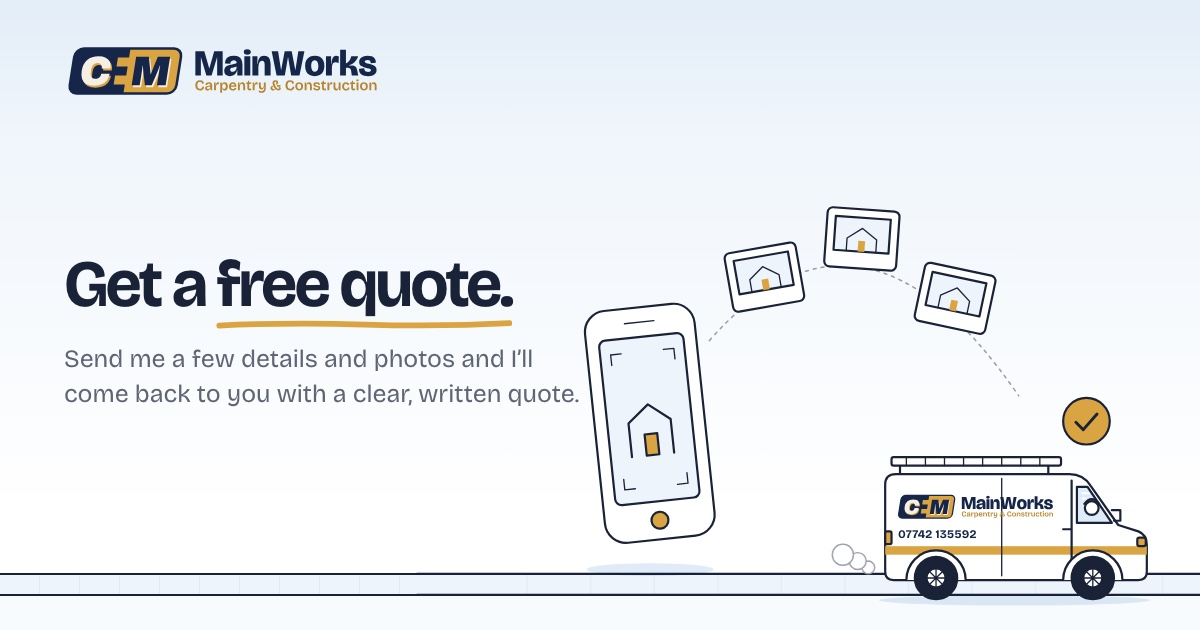
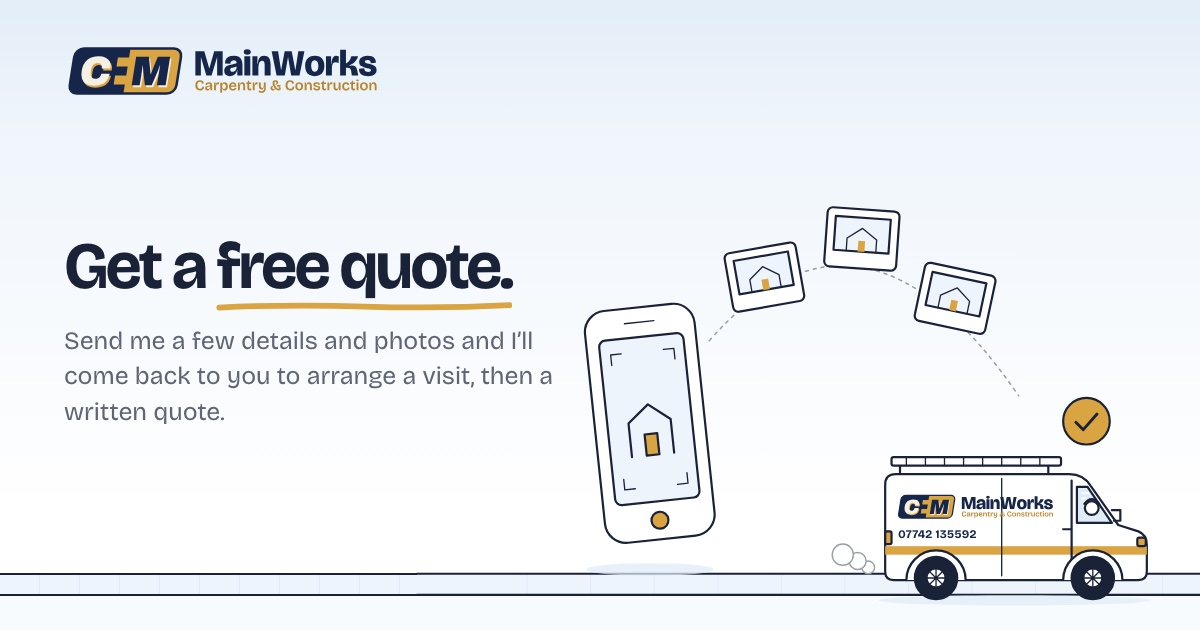
Impeccable critique fixes: quote routes, contact page, honest promise, grouped services
- A gold 'Free quote' beside the phone number on computers (phones have the bar)
- Contact: the form first on phones; what to send (a tick list) beside it on
  computers; the form doesn't repeat the page's heading
- The form promises a visit, not a price; after sending: what happens next and
  'Copy my message' for anyone whose WhatsApp or email didn't open
- Price cards stack on phones; no label above the heading (an Impeccable ban):
  'My main work' moves into the card's own line
- Menus group services into renovation work and smaller jobs; the form's job
  names match the menu
- Service headings underline the words that matter, on one line
- The phone hero's quote panel folds away again
- Browser checks: bigger tap areas (footer, crumbs), footer logo focus ring,
  before/after tags 13px, shorter price-note lines, no empty-animation warnings,
  text selection and caret in the palette

Changed region(s): [[0.0308, 0.3619, 0.4933, 0.6635], [0.4933, 0.9048, 0.5858, 0.9349]]

diff --git a/components/QuoteForm.tsx b/components/QuoteForm.tsx
@@ -40,7 +40,7 @@ const whatsappUrl = (text: string) => `${business.whatsapp}?text=${encodeURIComp
 const mailUrl = (to: string, subject: string, text: string) =>
   `mailto:${to}?subject=${encodeURIComponent(subject)}&body=${encodeURIComponent(text)}`;
 
-function QuoteCard({ headingLevel = 2, defaultJob = "" }: { headingLevel?: 2 | 1; defaultJob?: JobType | "" }) {
+function QuoteCard({ headingLevel = 2, defaultJob = "", head = true }: { headingLevel?: 2 | 1; defaultJob?: JobType | ""; head?: boolean }) {
   const formRef = useRef<HTMLFormElement>(null);
   const againRef = useRef<HTMLButtonElement>(null);
   const [errors, setErrors] = useState<Partial<Record<Key, string>>>({});
@@ -48,6 +48,7 @@ function QuoteCard({ headingLevel = 2, defaultJob = "" }: { headingLevel?: 2 | 1
   const [more, setMore] = useState(false);
   const [sent, setSent] = useState<Sent | null>(null);
   const [mail, setMail] = useState(""); // joined after the page loads, so it isn't in the page for bots
+  const [copied, setCopied] = useState(false);
 
   useEffect(() => setMail(business.emailParts.join("@")), []);
 
@@ -111,6 +112,7 @@ function QuoteCard({ headingLevel = 2, defaultJob = "" }: { headingLevel?: 2 | 1
     setErrors({});
     setMore(false);
     setSent(null);
+    setCopied(false);
     setTimeout(() => (formRef.current?.elements.namedItem("name") as HTMLInputElement)?.focus(), 0);
   };
 
@@ -132,6 +134,7 @@ function QuoteCard({ headingLevel = 2, defaultJob = "" }: { headingLevel?: 2 | 1
               ? <>WhatsApp should be open with your details written out. <strong>Now add any photos with the paperclip</strong>, then tap send.</>
               : <>Your email should be open with your details filled in. <strong>Now attach any photos</strong>, then send it.</>}
           </p>
+          <p className="next">What happens next: I’ll reply, come and see the job, then send you a written quote.</p>
           <ul className="done-links">
             <li>
               {wa
@@ -142,6 +145,12 @@ function QuoteCard({ headingLevel = 2, defaultJob = "" }: { headingLevel?: 2 | 1
               {wa
                 ? <a href={mailUrl(mail, sent.subject, sent.text)}>Send it by email instead</a>
                 : <a href={whatsappUrl(sent.text)} target="_blank" rel="noopener">Send it on WhatsApp instead</a>}
+            </li>
+            <li>
+              {/* for anyone whose WhatsApp or email didn't open: the message, to paste anywhere */}
+              <button type="button" className="copy" onClick={() => navigator.clipboard?.writeText(sent.text).then(() => setCopied(true), () => {})}>
+                {copied ? "Copied. Paste it anywhere" : "Copy my message"}
+              </button>
             </li>
             <li>Or ring me on <a href={business.phoneHref}>{business.phoneDisplay}</a></li>
           </ul>
@@ -164,12 +173,14 @@ function QuoteCard({ headingLevel = 2, defaultJob = "" }: { headingLevel?: 2 | 1
 
   return (
     <div className="quote">
-      <div className="quote-head">
-        <H>Get a free quote</H>
-        <p>A few details and I’ll come back to you with a price.</p>
-      </div>
+      {head && (
+        <div className="quote-head">
+          <H>Get a free quote</H>
+          <p>A few details and I’ll come back to you to arrange a visit.</p>
+        </div>
+      )}
 
-      <form ref={formRef} noValidate onSubmit={onSubmit} aria-describedby="q-note">
+      <form ref={formRef} noValidate onSubmit={onSubmit} aria-describedby="q-note" aria-label="Ask for a free quote">
         <div className="row2">
           <div className={`field${errors.name ? " invalid" : ""}`}>
             <label htmlFor="q-name">Name</label>
@@ -241,7 +252,7 @@ function QuoteCard({ headingLevel = 2, defaultJob = "" }: { headingLevel?: 2 | 1
   Tablets and desktop always show the form. "Ask about…" buttons, the mobile bar
   and links to #quote open it too.
 */
-export default function QuoteForm({ headingLevel = 2, collapsible = false, defaultJob = "" }: { headingLevel?: 2 | 1; collapsible?: boolean; defaultJob?: JobType | "" }) {
+export default function QuoteForm({ headingLevel = 2, collapsible = false, defaultJob = "", head = true }: { headingLevel?: 2 | 1; collapsible?: boolean; defaultJob?: JobType | ""; head?: boolean }) {
   const [open, setOpen] = useState(false);
   const [mobile, setMobile] = useState(false);
   const panel = useRef<HTMLDivElement>(null);
@@ -264,7 +275,7 @@ export default function QuoteForm({ headingLevel = 2, collapsible = false, defau
   }, [collapsible]);
 
   if (!collapsible) {
-    return <div className="quote-wrap" id="quote"><QuoteCard headingLevel={headingLevel} defaultJob={defaultJob} /></div>;
+    return <div className="quote-wrap" id="quote"><QuoteCard headingLevel={headingLevel} defaultJob={defaultJob} head={head} /></div>;
   }
 
   const openForm = () => {
@@ -276,7 +287,7 @@ export default function QuoteForm({ headingLevel = 2, collapsible = false, defau
   return (
     <div className={`quote-wrap collapsible${open ? " is-open" : ""}`} id="quote">
       <div className="quote-cta-wrap">
-        <button type="button" className="quote-cta" aria-expanded={open} aria-controls="quote-panel" onClick={openForm}>
+        <button type="button" className="quote-cta" aria-expanded={open} aria-controls="quote-panel" onClick={() => (open ? setOpen(false) : openForm())}>
           Get a free quote <ChevronDown />
         </button>
         <a className="quote-call" href={business.phoneHref}>Or ring me on {business.phoneDisplay}</a>

diff --git a/app/contact/page.tsx b/app/contact/page.tsx
@@ -16,11 +16,21 @@ export const metadata: Metadata = pageMeta({
 export default function Contact() {
   return (
     <>
-      <PageHead art="photos" crumbs={[{ href: "/contact", label: "Contact" }]} title={<>Get a <span className="hl">free quote.</span></>} lede="Planning a renovation or just one job? Send me a few details and photos and I’ll come back to you with a clear, written price." />
-      <section className="sec" style={{ paddingTop: 0 }}>
+      <PageHead art="photos" crumbs={[{ href: "/contact", label: "Contact" }]} title={<>Get a <span className="hl">free quote.</span></>} lede="Planning a renovation or just one job? Send me a few details and photos and I’ll come back to you to arrange a visit, then a written quote." />
+      <section className="sec contact-page" style={{ paddingTop: 0 }}>
         <div className="wrap contact-grid">
           <div data-reveal="up">
-            <h2 className="mid-h">Ring, message or send photos</h2>
+            <h2 className="mid-h">What to send for a quick quote</h2>
+            <p className="contact-sub">Not all of it. The more I see, the quicker the price.</p>
+            <ul className="ticks">
+              <li>A photo of each room or area, plus a couple of close-ups of anything that’s damaged or awkward</li>
+              <li>Rough measurements, if you’ve got them. Not essential</li>
+              <li>Any pictures you’ve saved of the look you’re after</li>
+              <li>Your postcode, and roughly when you’d like the work done</li>
+              <li>For a renovation, a rough budget if you have one. I’ll be honest about what it can do</li>
+              <li>Whether you’re supplying anything yourself, like doors, paint or tiles</li>
+            </ul>
+            <h2 className="mid-h contact-or">Or ring or message me</h2>
             <ul className="contact-list">
               <li><span className="k">Call</span><a href={business.phoneHref}>{business.phoneDisplay}</a></li>
               <li><span className="k">WhatsApp</span><a href={business.whatsapp} target="_blank" rel="noopener">Message me</a></li>
@@ -36,23 +46,8 @@ export default function Contact() {
               </li>
             </ul>
           </div>
-          <QuoteForm />
-        </div>
-      </section>
-      <section className="sec grey" aria-labelledby="send-title">
-        <div className="wrap faq-wrap">
-          <div className="faq-side" data-reveal="up">
-            <h2 id="send-title">What to send for a quick quote</h2>
-            <p>Not all of it. The more I see, the quicker the price.</p>
-          </div>
-          <ol className="factors" data-reveal="stagger">
-            <li>A photo of each room or area, plus a couple of close-ups of anything that’s damaged or awkward</li>
-            <li>Rough measurements, if you’ve got them. Not essential</li>
-            <li>Any pictures you’ve saved of the look you’re after</li>
-            <li>Your postcode, and roughly when you’d like the work done</li>
-            <li>For a renovation, a rough budget if you have one. I’ll be honest about what it can do</li>
-            <li>Whether you’re supplying anything yourself, like doors, paint or tiles</li>
-          </ol>
+          {/* the page's heading already says "Get a free quote", so the form doesn't repeat it */}
+          <QuoteForm head={false} />
         </div>
       </section>
     </>

diff --git a/app/concept.css b/app/concept.css
@@ -629,3 +629,41 @@ h1 .hl, h2 .hl, .quote-big .hl { background-size: var(--hlw, 100%) .26em; paddin
 .size-meter i:nth-child(3) { height: 16px; }
 .size-meter i.on { background: var(--gold); }
 .pkg .sizes .size-meter { display: inline-flex; flex-direction: row; align-items: flex-end; gap: 2px; }
+
+/* ---------- Impeccable critique fixes (10 Nov) ---------- */
+/* a gold "Free quote" beside the phone number on computers (phones have the sticky bar) */
+.head-quote { padding: 10px 18px; font-size: .95rem; white-space: nowrap; }
+@media (max-width: 1080px) { .head-quote { display: none !important; } }
+@media (min-width: 1081px) { .head .wrap { gap: 28px; } }
+.pkgs:not(.three) > .pkg { padding-top: clamp(24px, 2.4vw, 32px); }
+/* the menus' services in two small groups */
+.svc-group-label { margin: 10px 8px 4px; font-size: .8rem; font-weight: 600; color: var(--ink-3); }
+.nav-panel .svc-group-label { margin: 12px 8px 2px; }
+@media (max-width: 1080px) { .menu-sub .svc-group-label { margin: 14px 0 0; font-size: .85rem; } .menu-sub .svc-group + .svc-group .svc-links { border-bottom: 1px solid var(--line); } .menu-sub .svc-group:first-child .svc-links { border-bottom: 0; } }
+/* the quote form: what happens next, and copy my message */
+.done .next { margin-top: 12px; font-size: .95rem; color: var(--ink); }
+.done .done-links .copy { padding: 0 0 1px; border: 0; border-bottom: 2px solid var(--gold); background: none; font: inherit; font-weight: 600; color: var(--ink); cursor: pointer; margin-top: 0; }
+/* contact page: the form first on phones; what to send and the other ways beside it on computers */
+.contact-page .contact-sub { margin: 8px 0 18px; color: var(--ink-2); }
+.contact-page .factors { margin-bottom: 8px; }
+.contact-page .contact-or { margin-top: clamp(32px, 4vw, 48px); }
+@media (max-width: 1080px) { .contact-page .contact-grid { display: flex; flex-direction: column; } .contact-page .quote-wrap { order: -1; margin-bottom: 40px; } }
+/* price cards stack on phones, so all four are seen (the gold one first) */
+@media (max-width: 720px) {
+  .pkgs:not(.three) { display: grid !important; grid-template-columns: minmax(0, 1fr); gap: 14px; overflow: visible; margin: 0; padding: 0; }
+  .pkgs:not(.three) > .pkg { flex: none; }
+}
+/* small technical fixes from the browser checks */
+.crumbs a { display: inline-block; padding: 4px 0; }
+.foot nav ul { gap: 3px; }
+.foot nav a { display: inline-block; min-height: 24px; padding: 3px 0; }
+.foot-areas li { margin-bottom: 3px; }
+.foot-brand > a { display: inline-block; }
+.ba .tag, .ba-split .tag { font-size: .84rem; }
+.price-note { max-width: 60ch; }
+/* browser surfaces in the palette: text selection and the typing caret */
+::selection { background: var(--t-gold); color: var(--ink); }
+input, textarea, select { caret-color: var(--gold-ink); }
+
+.contact-page .ticks { margin-bottom: 8px; }
+.crumbs { align-items: center; } .crumbs li > span { display: inline-block; padding: 4px 0; }

diff --git a/components/Motion.tsx b/components/Motion.tsx
@@ -62,7 +62,7 @@ export default function Motion() {
           const drawings = pick<SVGSVGElement>("[data-illustration]");
           const badge = pick<HTMLElement>(".closing .big-badge")[0];
 
-          gsap.set(ups, { opacity: 0, y: 18 });
+          if (ups.length) gsap.set(ups, { opacity: 0, y: 18 });
           ScrollTrigger.batch(ups, {
             start: "top 98%", once: true,
             onEnter: (els) => gsap.to(els, { opacity: 1, y: 0, duration: 0.5, ease: "power2.out", stagger: 0.05 }),
@@ -76,13 +76,13 @@ export default function Motion() {
           });
 
           // illustration tiles just fade in quickly; the drawing does the work
-          gsap.set(tiles, { opacity: 0 });
+          if (tiles.length) gsap.set(tiles, { opacity: 0 });
           ScrollTrigger.batch(tiles, {
             start: "top 98%", once: true,
             onEnter: (els) => gsap.to(els, { opacity: 1, duration: 0.35, ease: "power1.out" }),
           });
 
-          gsap.set(photos, { opacity: 0 });
+          if (photos.length) gsap.set(photos, { opacity: 0 });
           ScrollTrigger.batch(photos, {
             start: "top 96%", once: true,
             onEnter: (els) => els.forEach((el, i) => {
@@ -93,7 +93,7 @@ export default function Motion() {
           });
 
           // ---- marker highlights ----
-          gsap.set(marks, { "--hlw": "0%" });
+          if (marks.length) gsap.set(marks, { "--hlw": "0%" });
           ScrollTrigger.batch(marks, {
             start: "top 94%", once: true,
             onEnter: (els) => gsap.to(els, { "--hlw": "100%", duration: 0.5, ease: "power2.inOut", delay: 0.05 }),
@@ -103,7 +103,7 @@ export default function Motion() {
           // Moving anything inside a drawing (drawing each line in, sliding its colour
           // block) repaints the whole drawing on every frame, which was the slowest thing
           // on the site. Fading the drawing as one piece is handled by the graphics chip.
-          gsap.set(drawings, { autoAlpha: 0, y: 14 });
+          if (drawings.length) gsap.set(drawings, { autoAlpha: 0, y: 14 });
           ScrollTrigger.batch(drawings, {
             start: "top 98%", once: true,
             onEnter: (els) => gsap.to(els, { autoAlpha: 1, y: 0, duration: 0.45, ease: "power2.out", stagger: 0.05, force3D: true, clearProps: "transform" }),

diff --git a/components/ServiceLinks.tsx b/components/ServiceLinks.tsx
@@ -26,19 +26,31 @@ export function RenovationLink({ art, path }: { art: boolean; path: string }) {
   in the page (for Google); the drawings appear once the menu is opened.
 */
 export default function ServiceLinks({ art, path, id }: { art: boolean; path: string; id?: string }) {
+  // two small groups (renovation work, smaller jobs) rather than one block of nine (Impeccable critique, 10 Nov)
+  const groups = [
+    { label: "Renovation work", items: sections.filter((s) => s.group === "renovation") },
+    { label: "Smaller jobs", items: sections.filter((s) => s.group === "smaller") },
+  ];
   return (
-    <ul className="svc-links" id={id}>
-      {sections.map((s) => {
-        const href = `/services/${s.slug}`;
-        return (
-          <li key={s.slug}>
-            <Link href={href} aria-current={path === href ? "page" : undefined}>
-              <Mini kind={s.illo} show={art} />
-              <span>{s.name}</span>
-            </Link>
-          </li>
-        );
-      })}
-    </ul>
+    <div className="svc-groups" id={id}>
+      {groups.map((g) => (
+        <div className="svc-group" key={g.label}>
+          <p className="svc-group-label">{g.label}</p>
+          <ul className="svc-links">
+            {g.items.map((s) => {
+              const href = `/services/${s.slug}`;
+              return (
+                <li key={s.slug}>
+                  <Link href={href} aria-current={path === href ? "page" : undefined}>
+                    <Mini kind={s.illo} show={art} />
+                    <span>{s.name}</span>
+                  </Link>
+                </li>
+              );
+            })}
+          </ul>
+        </div>
+      ))}
+    </div>
   );
 }

diff --git a/content/site.ts b/content/site.ts
@@ -39,8 +39,8 @@ export type SectionSlug =
 
 /** What people pick in the quote form. Each service maps to one. */
 export const jobTypes = [
-  "Full renovation", "Extension", "Kitchen", "Bathroom", "Stairs", "Floors and tiling", "Roofing",
-  "Doors, skirting and carpentry", "Joinery", "Decorating", "Something else",
+  "Full renovation", "Extension", "Kitchen", "Bathroom", "Stairs, doors and skirting", "Floors and tiling", "Roofing",
+  "Carpentry", "Joinery", "Decorating", "Something else",
 ] as const;
 export type JobType = (typeof jobTypes)[number];
 
@@ -95,7 +95,7 @@ export const sections: Section[] = [
     work: "Bathroom work",
   },
   {
-    slug: "staircases", ...oak, group: "renovation", illo: "stairs", job: "Stairs",
+    slug: "staircases", ...oak, group: "renovation", illo: "stairs", job: "Stairs, doors and skirting",
     name: "Stairs, doors and skirting",
     blurb: "The joinery that finishes a home.",
     intro: "The joinery that makes a house feel finished: a solid staircase, doors that close properly and skirting and architrave that sit tight.",
@@ -119,7 +119,7 @@ export const sections: Section[] = [
     work: "Floor and tiling work",
   },
   {
-    slug: "carpentry", ...oak, group: "smaller", illo: "carpentry", job: "Doors, skirting and carpentry",
+    slug: "carpentry", ...oak, group: "smaller", illo: "carpentry", job: "Carpentry",
     name: "Carpentry",
     blurb: "Doors, trims and the odd jobs.",
     intro: "One door that sticks is as welcome as a whole house of new ones. Small carpentry jobs, done the same way as the big ones.",

diff --git a/app/services/[slug]/page.tsx b/app/services/[slug]/page.tsx
@@ -50,7 +50,16 @@ export default async function Service({ params }: Props) {
   const at = sections.findIndex((x) => x.slug === s.slug);
   const prev = sections[(at - 1 + sections.length) % sections.length];
   const next = sections[(at + 1) % sections.length];
-  const [first, ...rest] = c.h1.split(" ");
+  // the gold underline goes under the words that matter, at the end of the heading (Impeccable critique, 10 Nov):
+  // the words after the comma, or the last three when there are more ("Decorating, right to the last coat"),
+  // kept on one line so the underline never runs into the line below
+  const [lead, mark] = (() => {
+    const at = c.h1.indexOf(", ");
+    const tail = at > 0 ? c.h1.slice(at + 2) : c.h1;
+    const words = tail.split(" ");
+    const keep = words.length > 3 ? words.slice(-3).join(" ") : tail;
+    return [c.h1.slice(0, c.h1.length - keep.length), keep];
+  })();
   const faqs = c.faqs.map((f) => ({ ...f, color: s.slug }));
   // keep white and grey sections alternating whichever optional blocks show
   const showReno = s.slug !== "carpentry";
@@ -83,7 +92,7 @@ export default async function Service({ params }: Props) {
       <PageHead
         crumbs={[{ href: "/renovations", label: "Renovations" }, { href: `/services/${s.slug}`, label: s.name }]}
         art={s.illo}
-        title={<><span className="hl" data-pen={s.pen}>{first}</span> {rest.join(" ")}</>}
+        title={<>{lead}<span className="hl" data-pen={s.pen} style={{ whiteSpace: "nowrap" }}>{mark}</span></>}
         lede={c.lede}
       />
 

diff --git a/components/Header.tsx b/components/Header.tsx
@@ -20,6 +20,9 @@ export default function Header() {
   const show = (on: boolean) => { if (on) setSeen(true); setDrop(on); };
 
   useEffect(() => setDrop(false), [path]);
+  // "Free quote" goes to this page's own form when it has one, otherwise the contact page's
+  const [quoteHref, setQuoteHref] = useState("/contact#quote");
+  useEffect(() => setQuoteHref(document.getElementById("quote") ? "#quote" : "/contact#quote"), [path]);
   useEffect(() => {
     if (!drop) return;
     const away = (e: MouseEvent) => { if (!dropRef.current?.contains(e.target as Node)) setDrop(false); };
@@ -71,6 +74,7 @@ export default function Header() {
           <Phone />
           <span className="tel-num">{business.phoneDisplay}</span>
         </a>
+        <Link className="btn btn-gold head-quote" href={quoteHref}>Free quote</Link>
         <MobileMenu />
       </div>
     </header>

diff --git a/components/PackageCard.tsx b/components/PackageCard.tsx
@@ -52,7 +52,6 @@ export default function PackageCard({ p, compact = false, headingLevel = 3 }: { 
   }
   return (
     <article className={`pkg${p.quoteOnly ? " main" : ""}`} style={style}>
-      {p.quoteOnly && <span className="pkg-tag">My main work</span>}
       <H className="pkg-name">{p.name}</H>
       <p className="pkg-sum">{p.summary}</p>
       <div className="pkg-price">

diff --git a/content/prices.ts b/content/prices.ts
@@ -37,7 +37,7 @@ export const packages: Package[] = [
     look: "renovation",
     from: null,
     quoteOnly: true,
-    summary: "Every room you want doing, managed by one team.",
+    summary: "My main work: every room you want doing, managed by one team.",
     includes: [
       "Planned with you, in clear phases",
       "Invoiced phase by phase",
